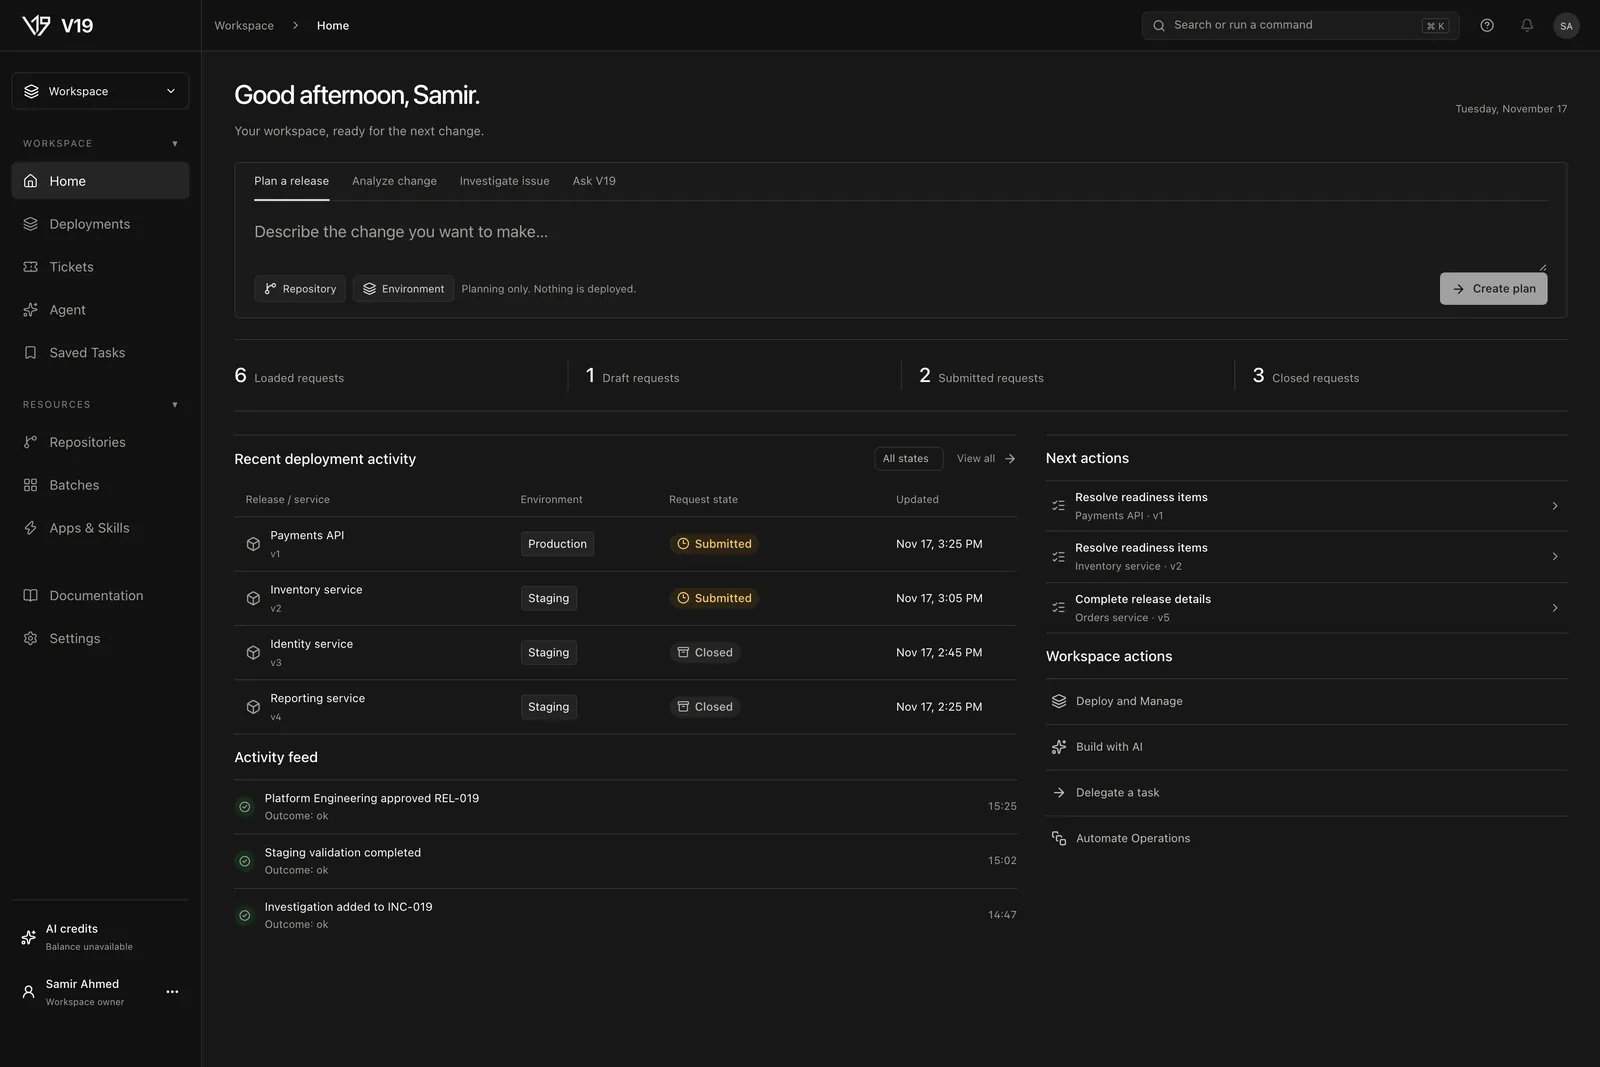
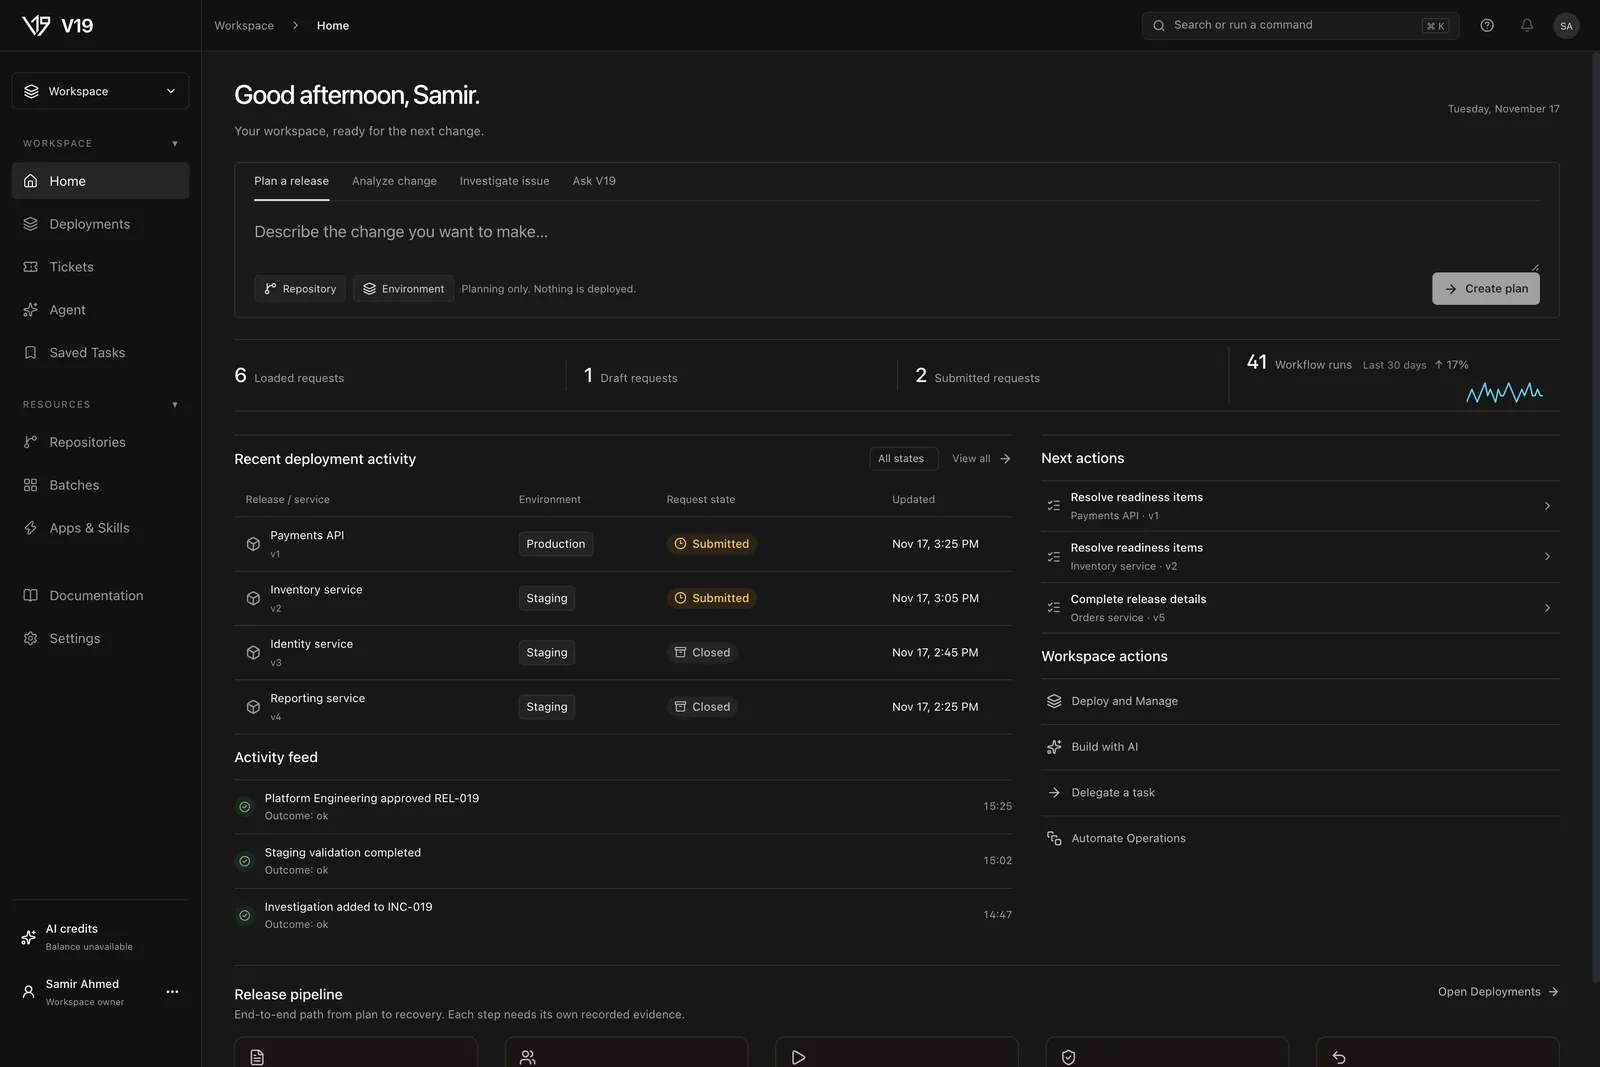
Home: 30-day workflow run trend and release pipeline
Replaces the Closed requests tile with recorded workflow runs, a daily
sparkline and a delta against the previous 30 days (omitted when the
window is truncated). Adds a five-stage release pipeline explainer that
opens Deployments. Docs home image refreshed.

diff --git a/desktop/src/views/WelcomeView.tsx b/desktop/src/views/WelcomeView.tsx
@@ -8,11 +8,11 @@ function auditOutcomeTone(outcome: string): {tone: StatusTone; shape: StatusShap
   if (outcome === "skipped") return {tone: "neutral", shape: "dot"};
   return null;
 }
-import { ArrowRight, Box, ChevronRight, GitBranch, History, Layers, ListChecks, Sparkles, SquareStack } from "lucide-react";
+import { ArrowRight, Box, ChevronRight, FileText, GitBranch, History, Layers, ListChecks, Play, ShieldCheck, Sparkles, SquareStack, Undo2, Users } from "lucide-react";
 import { useEffect, useLayoutEffect, useRef, useState } from "react";
 import { z } from "zod";
 import { HOME_DRAFT_MAX_LENGTH, type HomePlanningContext, type HomePlanningIntent } from "../lib/agentDraftRequest";
-import { desktopClient } from "../lib/desktopClient";
+import { desktopClient, type DeploymentOutcomeSummaryDto } from "../lib/desktopClient";
 import { releaseJourney } from "../../../lib/customerJourney/journey";
 
 export interface SavedReleaseLink {
@@ -32,9 +32,8 @@ const releaseSummary = [
   {key: "loaded", label: "Loaded requests"},
   {key: "draft", label: "Draft requests"},
   {key: "submitted", label: "Submitted requests"},
-  {key: "closed", label: "Closed requests"},
 ] as const;
-type ReleaseCounts = Record<typeof releaseSummary[number]["key"], number>;
+type ReleaseCounts = Record<typeof releaseSummary[number]["key"] | "closed", number>;
 
 interface WelcomeViewProps {
   active?: boolean;
@@ -351,6 +350,7 @@ function StudioWelcomeView({ active = true, returnActivity, onBuild, onBot, onAu
         <dt>{label}</dt>
         <dd>{ownedActivity?.counts?.[key].toLocaleString() ?? "—"}</dd>
       </div>)}
+      <WorkflowRunTrend/>
     </dl>
     <div className="studio-home-activity-layout">
     <div className="studio-home-activity-column">
@@ -427,5 +427,50 @@ function StudioWelcomeView({ active = true, returnActivity, onBuild, onBot, onAu
     </nav>
     </div>
     </div>
+    <ReleasePipeline onOpen={onDeploy}/>
+  </section>;
+}
+
+/** Recorded workflow runs over the last 30 days with a daily sparkline; unknown stays unknown. */
+function WorkflowRunTrend() {
+  const [summary, setSummary] = useState<DeploymentOutcomeSummaryDto | null | undefined>();
+  useEffect(() => {
+    let live = true;
+    Promise.resolve().then(() => desktopClient.deploymentOutcomeSummary()).then(result => { if (live) setSummary(result.ok && typeof result.data?.recorded === "number" ? result.data : null); }).catch(() => { if (live) setSummary(null); });
+    return () => { live = false; };
+  }, []);
+  const daily = summary?.daily && summary.daily.length > 1 ? summary.daily : undefined;
+  const max = daily ? Math.max(1, ...daily) : 1;
+  const points = daily?.map((count, index) => `${(index / (daily.length - 1)) * 80},${22 - (count / max) * 20}`).join(" ");
+  const delta = summary && typeof summary.previousRecorded === "number" && summary.previousRecorded > 0
+    ? Math.round(((summary.recorded - summary.previousRecorded) / summary.previousRecorded) * 100) : undefined;
+  return <div className="studio-home-trend" title="Recorded workflow runs created in the last 30 days">
+    <dt>Workflow runs <span className="studio-release-summary-window">Last 30 days</span></dt>
+    <dd>{summary === undefined ? "…" : summary === null ? "Unavailable" : summary.recorded.toLocaleString()}</dd>
+    {delta !== undefined && <span className="studio-home-trend-delta">{delta >= 0 ? "↑" : "↓"} {Math.abs(delta)}%<span className="sr-only"> compared with the previous 30 days</span></span>}
+    {points && <svg className="studio-home-sparkline" viewBox="0 0 80 24" width="80" height="24" aria-hidden="true"><polyline points={points} fill="none" stroke="currentColor" strokeWidth="1.5" strokeLinejoin="round" strokeLinecap="round"/></svg>}
+  </div>;
+}
+
+const pipelineStages = [
+  {label: "Plan", detail: "Scope the exact change", Icon: FileText},
+  {label: "Approve", detail: "Independent review", Icon: Users},
+  {label: "Deploy", detail: "Governed execution", Icon: Play},
+  {label: "Validate", detail: "Recorded evidence", Icon: ShieldCheck},
+  {label: "Recover", detail: "Planned rollback", Icon: Undo2},
+] as const;
+
+/** The governed release path, as an explainer. It shows no live status. */
+export function ReleasePipeline({onOpen}: {onOpen: () => void}) {
+  return <section className="studio-home-pipeline" aria-labelledby="studio-home-pipeline-title">
+    <div className="studio-home-pipeline-head">
+      <div><h2 id="studio-home-pipeline-title">Release pipeline</h2><p>End-to-end path from plan to recovery. Each step needs its own recorded evidence.</p></div>
+      <button type="button" className="studio-home-pipeline-link" onClick={onOpen}>Open Deployments <ArrowRight size={14} aria-hidden="true"/></button>
+    </div>
+    <ol>{pipelineStages.map(({label, detail, Icon}, index) => <li key={label}>
+      <Icon size={18} aria-hidden="true"/>
+      <strong>{label}</strong><span>{detail}</span>
+      {index < pipelineStages.length - 1 && <ArrowRight className="studio-home-pipeline-arrow" size={16} aria-hidden="true"/>}
+    </li>)}</ol>
   </section>;
 }

diff --git a/lib/releaseops/deploymentOutcomeSummary.ts b/lib/releaseops/deploymentOutcomeSummary.ts
@@ -16,12 +16,23 @@ export interface DeploymentOutcomeSummary {
   successRate: number | null;
   medianSeconds: number | null;
   truncated: boolean;
+  /** Recorded runs created per UTC day, oldest first, one entry per day of the window. */
+  daily: number[];
+  /** Recorded runs created in the 30 days before this window, or null when unknown. */
+  previousRecorded: number | null;
 }
 const FAILED = new Set(["failure", "cancelled", "timed_out", "action_required", "startup_failure"]);
 const ACTIVE = new Set(["queued", "in_progress", "waiting", "pending", "requested"]);
 
-export function summarizeDeploymentOutcomes(rows: readonly ExecutionOutcomeRow[], truncated: boolean): DeploymentOutcomeSummary {
+export function summarizeDeploymentOutcomes(rows: readonly ExecutionOutcomeRow[], truncated: boolean, now: Date = new Date(), previousRecorded: number | null = null): DeploymentOutcomeSummary {
   let inProgress = 0, succeeded = 0, failed = 0;
+  const daily = new Array<number>(OUTCOME_WINDOW_DAYS).fill(0);
+  const today = Date.UTC(now.getUTCFullYear(), now.getUTCMonth(), now.getUTCDate());
+  for (const row of rows) {
+    const day = Date.UTC(row.createdAt.getUTCFullYear(), row.createdAt.getUTCMonth(), row.createdAt.getUTCDate());
+    const index = OUTCOME_WINDOW_DAYS - 1 - Math.round((today - day) / 86_400_000);
+    if (index >= 0 && index < OUTCOME_WINDOW_DAYS) daily[index]++;
+  }
   const durations: number[] = [];
   for (const row of rows) {
     const done = row.completedAt instanceof Date && !Number.isNaN(row.completedAt.getTime());
@@ -37,5 +48,6 @@ export function summarizeDeploymentOutcomes(rows: readonly ExecutionOutcomeRow[]
   const medianSeconds = durations.length === 0 ? null : Math.round(durations.length % 2 ? durations[mid] : (durations[mid - 1] + durations[mid]) / 2);
   const decided = succeeded + failed;
   return { windowDays: OUTCOME_WINDOW_DAYS, recorded: rows.length, inProgress, succeeded, failed,
-    successRate: decided === 0 ? null : Math.round((succeeded / decided) * 1000) / 10, medianSeconds, truncated };
+    successRate: decided === 0 ? null : Math.round((succeeded / decided) * 1000) / 10, medianSeconds, truncated,
+    daily, previousRecorded: truncated ? null : previousRecorded };
 }

diff --git a/app/api/desktop/environments/deployments/outcome-summary/route.ts b/app/api/desktop/environments/deployments/outcome-summary/route.ts
@@ -6,7 +6,7 @@ import { OUTCOME_ROW_LIMIT, OUTCOME_WINDOW_DAYS, summarizeDeploymentOutcomes, ty
 export const dynamic = "force-dynamic";
 export const runtime = "nodejs";
 
-interface OutcomeRepo { deploymentExecution: { findMany(args: { where: { organizationId: string; createdAt: { gte: Date } }; orderBy: { createdAt: "desc" }; take: number; select: { status: true; conclusion: true; createdAt: true; completedAt: true } }): Promise<ExecutionOutcomeRow[]> } }
+interface OutcomeRepo { deploymentExecution: { count(args: { where: { organizationId: string; createdAt: { gte: Date; lt: Date } } }): Promise<number>; findMany(args: { where: { organizationId: string; createdAt: { gte: Date } }; orderBy: { createdAt: "desc" }; take: number; select: { status: true; conclusion: true; createdAt: true; completedAt: true } }): Promise<ExecutionOutcomeRow[]> } }
 
 export async function GET(request: NextRequest): Promise<Response> {
   const session = await resolveRequestDesktopSession(request, { requiredScope: "pipeline:read", route: "GET /api/desktop/environments/deployments/outcome-summary", allowApiKey: false });
@@ -20,7 +20,10 @@ export async function GET(request: NextRequest): Promise<Response> {
       select: { status: true, conclusion: true, createdAt: true, completedAt: true },
     });
     const truncated = rows.length > OUTCOME_ROW_LIMIT;
-    return NextResponse.json({ ok: true, data: summarizeDeploymentOutcomes(rows.slice(0, OUTCOME_ROW_LIMIT), truncated) }, { headers: { "Cache-Control": "private, no-store" } });
+    const previous = await (prisma as unknown as OutcomeRepo).deploymentExecution.count({
+      where: { organizationId: String(session.organizationId), createdAt: { gte: new Date(since.getTime() - OUTCOME_WINDOW_DAYS * 86_400_000), lt: since } },
+    });
+    return NextResponse.json({ ok: true, data: summarizeDeploymentOutcomes(rows.slice(0, OUTCOME_ROW_LIMIT), truncated, new Date(), previous) }, { headers: { "Cache-Control": "private, no-store" } });
   } catch {
     return NextResponse.json({ ok: false, error: "outcome_summary_unavailable" }, { status: 503 });
   }

diff --git a/lib/desktop/__tests__/workspaceEntryClarity.test.ts b/lib/desktop/__tests__/workspaceEntryClarity.test.ts
@@ -1,3 +1,3 @@
 /** @vitest-environment jsdom */
 import {createElement} from 'react';import {it,expect,vi,afterEach} from 'vitest';import {render,screen,fireEvent,cleanup} from '@testing-library/react';import {WelcomeView} from '../../../desktop/src/views/WelcomeView';import {desktopClient} from "../../../desktop/src/lib/desktopClient";afterEach(()=>{cleanup();vi.restoreAllMocks()});
-it('offers distinct destinations for code, saved Bot tasks, automation and release planning without starting work',()=>{const onBuild=vi.fn(),onBot=vi.fn(),onAutomate=vi.fn(),onDeploy=vi.fn();vi.spyOn(desktopClient,"deploymentRequests").mockReturnValue(new Promise(()=>{}));render(createElement(WelcomeView,{onBuild,onBot,onAutomate,onDeploy, onOpenSavedRelease:vi.fn(),releaseOwner:"fixture",releaseConfig:desktopClient.config}));expect(screen.getAllByRole('button')).toHaveLength(5);expect(onBuild).not.toHaveBeenCalled();expect(onBot).not.toHaveBeenCalled();fireEvent.click(screen.getByRole('button',{name:/Delegate a task/}));expect(onBot).toHaveBeenCalledOnce();expect(onBuild).not.toHaveBeenCalled();expect(onAutomate).not.toHaveBeenCalled();expect(onDeploy).not.toHaveBeenCalled()});
+it('offers distinct destinations for code, saved Bot tasks, automation and release planning without starting work',()=>{const onBuild=vi.fn(),onBot=vi.fn(),onAutomate=vi.fn(),onDeploy=vi.fn();vi.spyOn(desktopClient,"deploymentRequests").mockReturnValue(new Promise(()=>{}));render(createElement(WelcomeView,{onBuild,onBot,onAutomate,onDeploy, onOpenSavedRelease:vi.fn(),releaseOwner:"fixture",releaseConfig:desktopClient.config}));expect(screen.getAllByRole('button')).toHaveLength(6);expect(onBuild).not.toHaveBeenCalled();expect(onBot).not.toHaveBeenCalled();fireEvent.click(screen.getByRole('button',{name:/Delegate a task/}));expect(onBot).toHaveBeenCalledOnce();expect(onBuild).not.toHaveBeenCalled();expect(onAutomate).not.toHaveBeenCalled();expect(onDeploy).not.toHaveBeenCalled();fireEvent.click(screen.getByRole('button',{name:/Open Deployments/}));expect(onDeploy).toHaveBeenCalledOnce()});

diff --git a/desktop/src/styles.css b/desktop/src/styles.css
@@ -1610,3 +1610,19 @@ html[data-theme="light"] {
 .studio-release-summary .status-icon-chip { order: -2; align-self: center; width: 24px; height: 24px; }
 .status-icon-chip:has(svg[width="11"]) { width: 18px; height: 18px; }
 .status-icon-chip:has(svg[width="12"]) { width: 22px; height: 22px; }
+.studio-home-trend { position: relative; }
+.studio-home-trend-delta { color: rgb(var(--neutral-zinc-400)); font-size: 12px; }
+.studio-home-sparkline { margin-inline-start: auto; align-self: center; color: var(--status-blue); }
+.studio-home-pipeline { margin-top: 24px; padding-top: 18px; border-top: 1px solid var(--studio-home-line, rgb(var(--axiom-border))); }
+.studio-home-pipeline-head { display: flex; justify-content: space-between; align-items: flex-start; gap: 16px; margin-bottom: 14px; }
+.studio-home-pipeline-head h2 { font-size: 15px; font-weight: 500; }
+.studio-home-pipeline-head p { margin-top: 2px; color: rgb(var(--neutral-zinc-400)); font-size: 12px; }
+.studio-home-pipeline-link { display: inline-flex; align-items: center; gap: 6px; color: rgb(var(--neutral-zinc-300)); font-size: 12px; }
+.studio-home-pipeline-link:hover { color: rgb(var(--neutral-zinc-100)); }
+.studio-home-pipeline ol { display: grid; grid-template-columns: repeat(5, minmax(0, 1fr)); gap: 28px; }
+.studio-home-pipeline li { position: relative; display: grid; gap: 4px; padding: 12px 14px; border: 1px solid rgb(var(--axiom-border)); border-radius: 10px; background: rgb(var(--axiom-surface)); }
+.studio-home-pipeline li > svg:first-child { color: rgb(var(--neutral-zinc-300)); }
+.studio-home-pipeline li strong { font-size: 13px; font-weight: 500; }
+.studio-home-pipeline li span { color: rgb(var(--neutral-zinc-400)); font-size: 11px; }
+.studio-home-pipeline-arrow { position: absolute; right: -22px; top: 50%; transform: translateY(-50%); color: rgb(var(--neutral-zinc-500)); }
+@media (max-width: 900px) { .studio-home-pipeline ol { grid-template-columns: repeat(2, minmax(0, 1fr)); } .studio-home-pipeline-arrow { display: none; } }

diff --git a/lib/releaseops/__tests__/deploymentOutcomeSummary.test.ts b/lib/releaseops/__tests__/deploymentOutcomeSummary.test.ts
@@ -11,7 +11,7 @@ describe("deployment outcome summary", () => {
       { status: "completed", conclusion: "neutral", createdAt: at(0), completedAt: at(2) },
       { status: "tracking_unavailable", conclusion: null, createdAt: at(0), completedAt: null },
     ], false);
-    expect(s).toEqual({ windowDays: 30, recorded: 6, inProgress: 1, succeeded: 2, failed: 1, successRate: 66.7, medianSeconds: 360, truncated: false });
+    expect(s).toMatchObject({ windowDays: 30, recorded: 6, inProgress: 1, succeeded: 2, failed: 1, successRate: 66.7, medianSeconds: 360, truncated: false });
   });
   it("reports no rate or duration when nothing concluded", () => {
     expect(summarizeDeploymentOutcomes([], true)).toMatchObject({ successRate: null, medianSeconds: null, recorded: 0, truncated: true });
@@ -19,5 +19,18 @@ describe("deployment outcome summary", () => {
   it("ignores impossible durations without dropping the outcome count", () => {
     const s = summarizeDeploymentOutcomes([{ status: "completed", conclusion: "success", createdAt: at(10), completedAt: at(5) }], false);
     expect(s).toMatchObject({ succeeded: 1, successRate: 100, medianSeconds: null });
+  });
+});
+
+describe("daily trend", () => {
+  it("buckets runs by UTC day, oldest first, and keeps the previous window count unless truncated", () => {
+    const now = new Date(Date.UTC(2026, 10, 26, 12));
+    const row = (d: number) => ({ status: "completed", conclusion: "success", createdAt: new Date(Date.UTC(2026, 10, d, 9)), completedAt: new Date(Date.UTC(2026, 10, d, 10)) });
+    const old = { ...row(1), createdAt: new Date(Date.UTC(2026, 9, 10, 9)) };
+    const s = summarizeDeploymentOutcomes([row(26), row(26), row(25), old], false, now, 7);
+    expect(s.daily).toHaveLength(30);
+    expect(s.daily[29]).toBe(2); expect(s.daily[28]).toBe(1); expect(s.daily.reduce((a, b) => a + b, 0)).toBe(3);
+    expect(s.previousRecorded).toBe(7);
+    expect(summarizeDeploymentOutcomes([], true, now, 7).previousRecorded).toBeNull();
   });
 });

diff --git a/desktop/src/lib/desktopClient.ts b/desktop/src/lib/desktopClient.ts
@@ -160,7 +160,7 @@ export interface AirflowAutomation {
 }
 export interface AirflowAutomationExecution { id: string; automationId: string; sourceDagId: string; sourceDagRunId: string; sourceDagState: string; status: string; attempt: number; errorCode: string | null; resultJson: unknown; createdAt: string }
 
-export interface DeploymentOutcomeSummaryDto { windowDays: number; recorded: number; inProgress: number; succeeded: number; failed: number; successRate: number | null; medianSeconds: number | null; truncated: boolean }
+export interface DeploymentOutcomeSummaryDto { windowDays: number; recorded: number; inProgress: number; succeeded: number; failed: number; successRate: number | null; medianSeconds: number | null; truncated: boolean; daily?: number[]; previousRecorded?: number | null }
 export interface DeploymentExecutionEvidence {
   operation: "unknown";
   requestedOperation?: "service_restart";

diff --git a/desktop/src/views/DeploymentRequestsView.tsx b/desktop/src/views/DeploymentRequestsView.tsx
@@ -1276,7 +1276,7 @@ function LoadedReleaseSummary({requests}: {requests: DeploymentRequestSummary[]}
   const [outcomes, setOutcomes] = useState<DeploymentOutcomeSummaryDto | null | undefined>();
   useEffect(() => {
     let live = true;
-    Promise.resolve().then(() => desktopClient.deploymentOutcomeSummary()).then(result => { if (live) setOutcomes(result.ok ? result.data : null); }).catch(() => { if (live) setOutcomes(null); });
+    Promise.resolve().then(() => desktopClient.deploymentOutcomeSummary()).then(result => { if (live) setOutcomes(result.ok && typeof result.data?.recorded === "number" ? result.data : null); }).catch(() => { if (live) setOutcomes(null); });
     return () => { live = false; };
   }, []);
   const windowLabel = `Last ${outcomes?.windowDays ?? 30} days`;

diff --git a/lib/desktop/__tests__/releaseIntakeNavigation.test.ts b/lib/desktop/__tests__/releaseIntakeNavigation.test.ts
@@ -760,7 +760,7 @@ it("counts loaded release records without claiming deployment outcomes", async (
   expect(summary.getByText("Loaded requests").nextElementSibling?.textContent).toBe("2");
   expect(summary.getByText("Draft requests").nextElementSibling?.textContent).toBe("2");
   expect(summary.getByText("Submitted requests").nextElementSibling?.textContent).toBe("0");
-  expect(summary.getByText("Closed requests").nextElementSibling?.textContent).toBe("0");
+  expect(summary.getByText(/Workflow runs/)).toBeTruthy();
   expect(summary.queryByText(/success|health/i)).toBeNull();
 });
 

diff --git a/lib/desktop/__tests__/savedSignInRecovery.test.ts b/lib/desktop/__tests__/savedSignInRecovery.test.ts
@@ -59,7 +59,9 @@ it("recovers a transient saved sign-in failure through the mounted App without w
     "/api/desktop/access",
     "/api/desktop/access",
     "/api/desktop/deployments",
+    "/api/desktop/environments/deployments/outcome-summary",
   ]);
+  expect(fetchMock.mock.calls.every(([, init]) => !init?.method || init.method === "GET")).toBe(true);
   expect(m.write).not.toHaveBeenCalled(); expect(m.clear).not.toHaveBeenCalled();
 });
 it.each([401, 403, 200])("keeps rejected or invalid initial verification locked (HTTP %s)", async status => {
